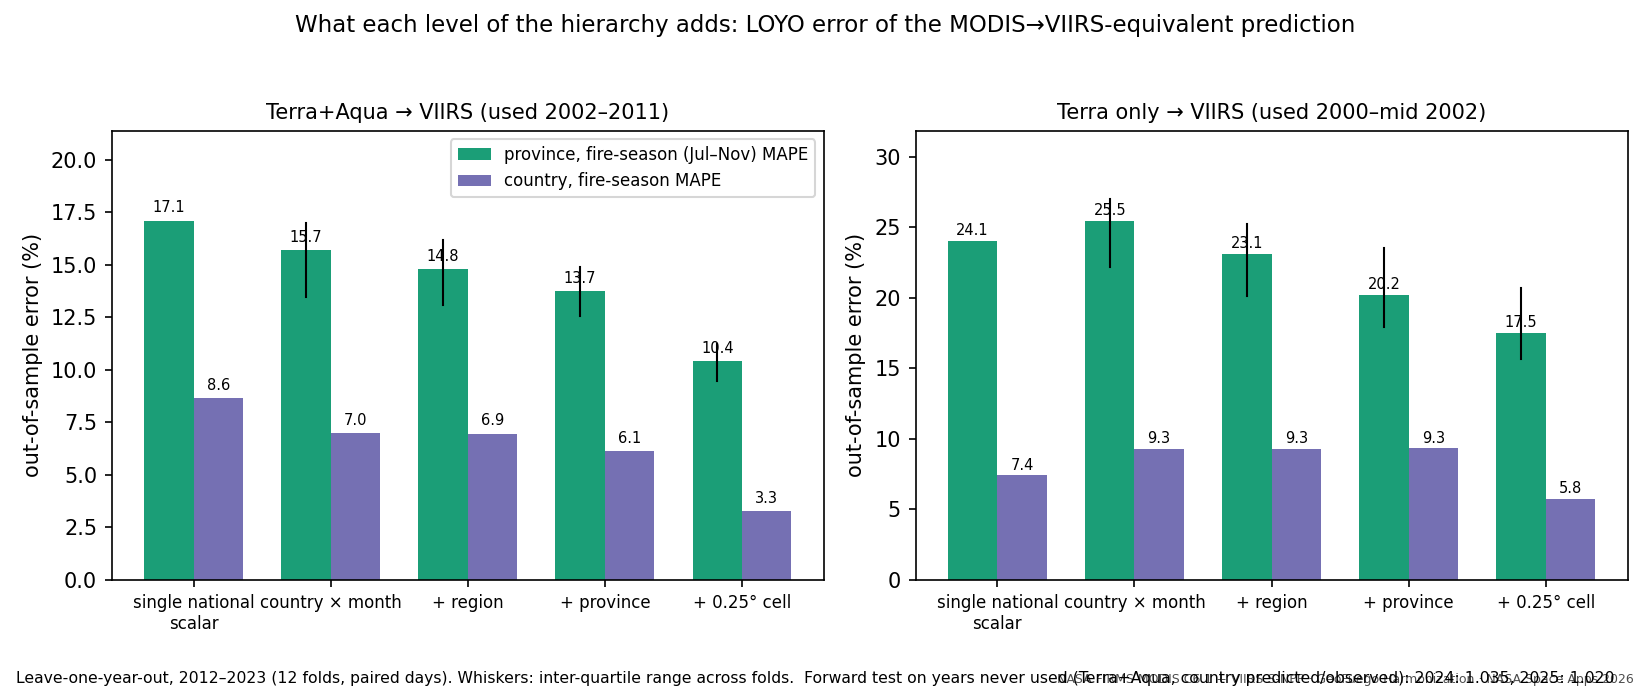
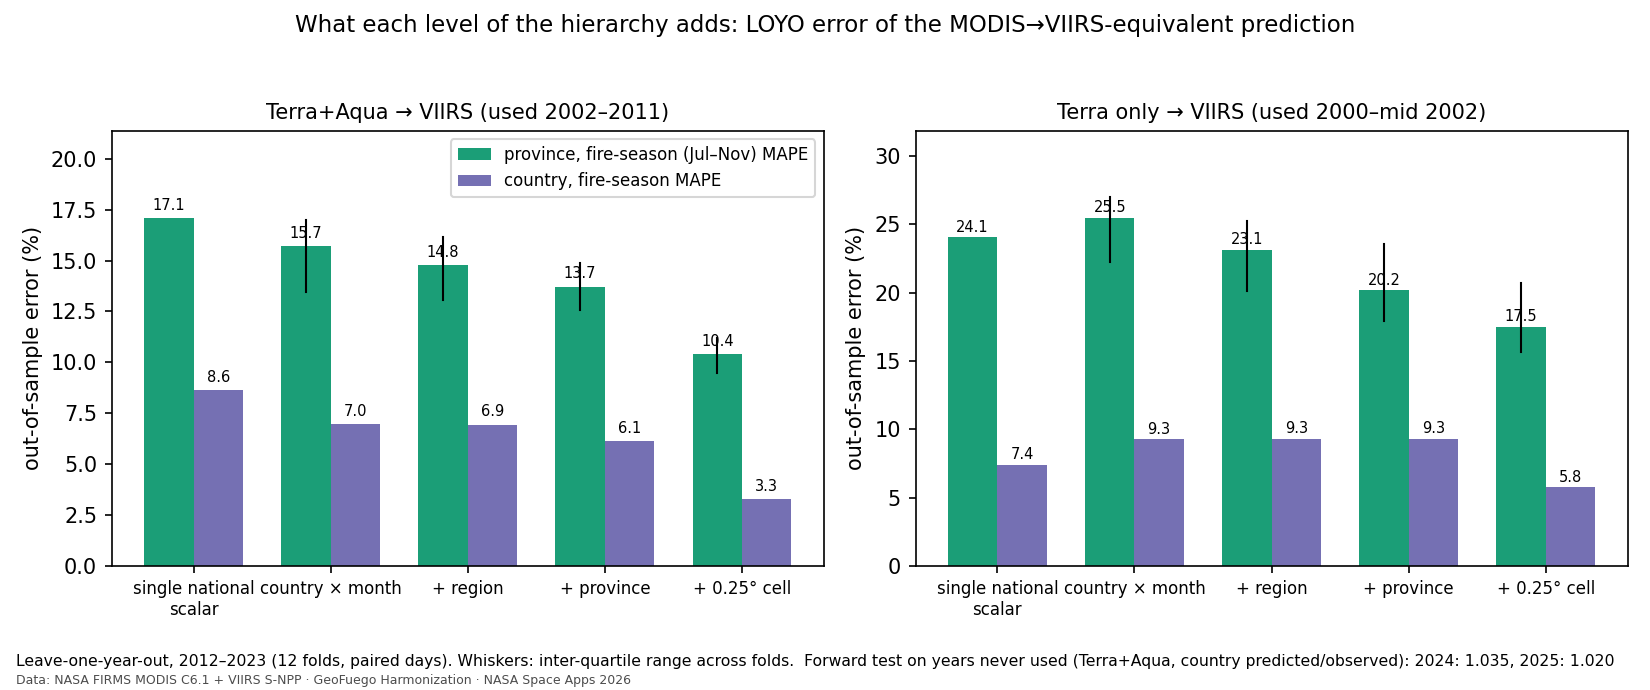
fig_ablation: footer layout

diff --git a/scripts/fig_ablation.py b/scripts/fig_ablation.py
@@ -37,8 +37,8 @@ for i, (set_, title) in enumerate([("TA", "Terra+Aqua → VIIRS (used 2002–201
 fw = B.get("forward_test", {})
 txt = "Leave-one-year-out, 2012–2023 (12 folds, paired days). Whiskers: inter-quartile range across folds."
 if fw: txt += "  Forward test on years never used (Terra+Aqua, country predicted/observed): " + ", ".join(f"{y}: {v['country_pred_over_obs']:.3f}" for y, v in fw.get("TA", {}).items())
-fig.text(0.01, 0.01, txt, fontsize=7.5)
-fig.text(0.99, 0.01, "NASA FIRMS MODIS C6.1 + VIIRS S-NPP · GeoFuego Harmonization · NASA Space Apps 2026", fontsize=6, alpha=0.7, ha="right")
+fig.text(0.01, 0.035, txt, fontsize=7.5)
+fig.text(0.01, 0.008, "Data: NASA FIRMS MODIS C6.1 + VIIRS S-NPP · GeoFuego Harmonization · NASA Space Apps 2026", fontsize=6, alpha=0.7)
 fig.suptitle("What each level of the hierarchy adds: LOYO error of the MODIS→VIIRS-equivalent prediction", fontsize=11)
-fig.tight_layout(rect=(0, 0.05, 1, 0.95))
+fig.tight_layout(rect=(0, 0.07, 1, 0.95))
 out = ROOT / "figures" / "validation_ablation_ladder.png"; fig.savefig(out); print(out)
